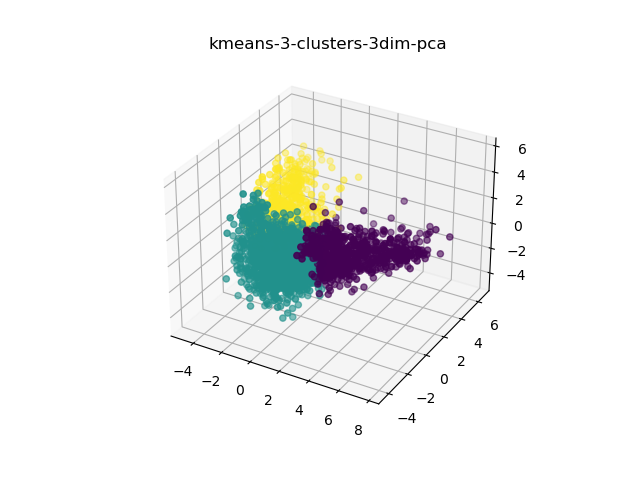
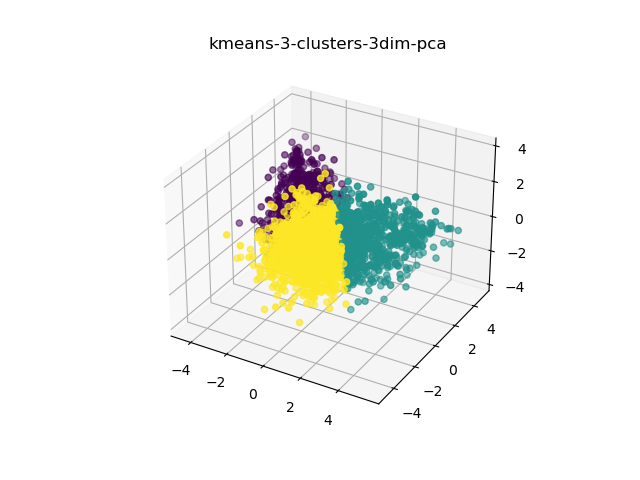
cluster fix and test loss evaluation

diff --git a/src/models/word2Vec.py b/src/models/word2Vec.py
@@ -36,7 +36,7 @@ class CustomWord2Vec(nn.Module):
         self.param_str = f"{dims}dim-"
         self.centers = T.randn(vocab_size, dims, requires_grad=True)
         self.contexts = T.randn(vocab_size, dims, requires_grad=True)
-        self.log = {"loss": []}
+        self.log = {"loss": [], "test_loss": []}
         self.neg_freq_fac = 1
         self.device = "cuda" if T.cuda.is_available() else "cpu"
         self.save_every = 5
@@ -61,45 +61,81 @@ class CustomWord2Vec(nn.Module):
         # LOSS
         self.opti.zero_grad()
         loss = ploss + nloss
-        self.log["loss"].append(loss.item())
         loss.backward()
         self.opti.step()
 
         return loss.item()
 
+    def test(self, loader):
+        losses = []
+        with T.no_grad():
+            for b_idx, batch in enumerate(loader):
+                # BATCH
+                center_idxs, context_idxs = batch
+                n_contexts = context_idxs.shape[1]
+                centers = self.centers[center_idxs]
+                centers = centers.repeat_interleave(n_contexts, dim=0)
+                contexts = self.contexts[context_idxs].flatten(0, 1)
+                c_size = contexts.shape[0]
+
+                # POSITIVE
+                ploss = F.cosine_embedding_loss(centers, contexts, target=T.ones(c_size))
+
+                # NEGATIVE
+                negatives = self.contexts[T.randint(self.vocab_size, size=(self.neg_freq_fac * c_size,))]
+                nloss = F.cosine_embedding_loss(centers, negatives, target=-1 * T.ones(c_size))
+
+                # LOSS
+                loss = ploss + nloss
+                losses.append(loss.item())
+        return sum(losses)/len(losses)
+
     def configure_optimizer(self) -> None:
         self.opti = T.optim.Adam([self.centers, self.contexts])
 
-    def train(self, train_loader: data.DataLoader, epochs=10, print_every=20) -> None:
+    def train(self, train_loader: data.DataLoader, test_loader=None, epochs=10, print_every=20) -> None:
         self.centers.to(self.device)
         self.contexts.to(self.device)
         for epoch in range(1, epochs + 1):
+            epoch_losses = []
             t = tqdm.tqdm(train_loader)
             for b_idx, batch in enumerate(t):
                 for b in batch:
                     b.to(self.device)
                 loss = self.training_step(batch)
+                epoch_losses.append(loss)
 
                 # PRINT
                 if not b_idx % print_every:
                     msg = f"epoch {epoch} loss {round(loss, 3)}"
                     t.set_description(msg)
 
+            self.log["loss"].append(sum(epoch_losses)/len(epoch_losses))
+
+            if test_loader is not None:
+                test_loss = self.test(test_loader)
+                self.log["test_loss"].append(test_loss)
+
             if not epoch % self.plot_every:
-                self.plot_logs(["loss"])
+                losses_list = ["loss"]+([] if test_loader is None else ["test_loss"])
+                #print(losses_list)
+                self.plot_logs(losses_list)
+
             if not epoch % self.save_every:
                 self.save_model()
 
     def plot_logs(self, keys, show=False):
         os.makedirs(self.path, exist_ok=True)
+        plt.clf()
         for key in keys:
             if self.log[key]:
-                plt.clf()
-                values = self.get_moving_avg(self.log[key], n=30)
+                #values = self.get_moving_avg(self.log[key], n=30)
+                values = self.log[key]
                 plt.plot(values, label=key)
                 if show:
                     plt.show()
-                plt.savefig(self.path + "plots.png")
+        plt.legend()
+        plt.savefig(self.path+self.param_str + "plots.png")
 
     def get_moving_avg(self, x, n=10):
         cumsum = np.cumsum(x)
@@ -137,7 +173,7 @@ class CustomWord2Vec(nn.Module):
             self.contexts = T.load(self.path+self.param_str + "y.pt")
             self.centers.requires_grad = True
             self.contexts.requires_grad = True
-            #print("LEAF", self.centers.is_leaf)
+            print("LEAF", self.centers.is_leaf)
             return True
         else:
             print(f"Couldn't find save files for {self.path+self.param_str} -> nothing loaded!")

diff --git a/clustering.py b/clustering.py
@@ -2,8 +2,9 @@ from sklearn import cluster
 from src.parsing import parser, actionSequence as AS
 from src.models import word2Vec
 import argparse
-from src.models.torchUtils import data_loader_from_numpy
+from src.models.torchUtils import data_set_from_numpy
 from src.models.torchUtils import write_embeddings_to_file
+from torch.utils.data import random_split, DataLoader
 from sklearn.cluster import KMeans, DBSCAN
 from sklearn.decomposition import PCA
 from sklearn.metrics.pairwise import cosine_distances
@@ -15,7 +16,8 @@ if __name__ == '__main__':
     # SETUP ARGUMENT PARSER
     argpar = argparse.ArgumentParser()
     argpar.add_argument("--epochs", type=int, default=30)
-    argpar.add_argument("--ncluster", type=int, default=30)
+    argpar.add_argument("--ncluster", type=int, default=3)
+    argpar.add_argument("--dims", type=int, default=64)
     argpar.add_argument("-noload", action="store_true")
     argpar.add_argument("-train", action="store_true")
     argpar.add_argument("-fused", action="store_true")
@@ -30,23 +32,26 @@ if __name__ == '__main__':
     # SETUP MODEL
     vocab_size = len(action_to_id)
     print(f"vocab size: {vocab_size}")
-    model = word2Vec.CustomWord2Vec(vocab_size=vocab_size)
-    model.configure_optimizer()
+    model = word2Vec.CustomWord2Vec(vocab_size=vocab_size, dims=args.dims)
     loaded_model_flag = False
     if not args.noload:
         loaded_model_flag = model.load_model()
+    model.configure_optimizer()
 
     # SETUP DATA
     contexts, centers = AS.generate_contexts(action_sequences)
     np_contexts = AS.actions_to_tokenized_np_arrays(contexts, action_to_id)
     np_centers = AS.actions_to_tokenized_np_arrays(centers, action_to_id)
-    data_loader = data_loader_from_numpy(np_centers.squeeze(), np_contexts)
+    dataset = data_set_from_numpy(np_centers.squeeze(), np_contexts)
+    train_counts = int(0.9*len(dataset))
+    trainset, testset = random_split(dataset, (train_counts, len(dataset)-train_counts))
+    train_loader = DataLoader(trainset, batch_size=32, shuffle=True)
+    test_loader = DataLoader(testset, batch_size=32, shuffle=True)
 
     # TRAINING
     if not loaded_model_flag or args.train:
         print(f"Start of Training for {args.epochs} epochs")
-        model.train(data_loader, epochs=args.epochs)
-        model.plot_logs(["loss"])
+        model.train(train_loader, test_loader=test_loader, epochs=args.epochs)
 
     #write_embeddings_to_file(model, action_to_id, approach_name='action_target_embedding')
 
@@ -67,7 +72,8 @@ if __name__ == '__main__':
 
     writefile = open(f"results/{NAME}.txt", "w")
     for c_idx, center in enumerate(cluster_centers):
-        print(c_idx, [str(idx_to_action[idx]) for idx in model.get_most_similar_idxs(vec=T.from_numpy(center))], file=writefile)
+        #print(c_idx, [str(idx_to_action[idx]) for idx in model.get_most_similar_idxs(vec=T.from_numpy(center))], file=writefile)
+        print(c_idx, [str(idx_to_action[idx]) for idx in range(len(X)) if clusterer.labels_[idx]==c_idx], file=writefile)
 
     labels = clusterer.labels_
     fig = plt.figure()

diff --git a/only_train.py b/only_train.py
@@ -2,8 +2,9 @@ from src.parsing import parser, actionSequence as AS
 from src.models import word2Vec
 import argparse
 import os
-from src.models.torchUtils import data_loader_from_numpy
+from src.models.torchUtils import data_set_from_numpy
 from src.models.torchUtils import write_embeddings_to_file
+from torch.utils.data import random_split, DataLoader
 
 
 if __name__ == '__main__':
@@ -24,21 +25,25 @@ if __name__ == '__main__':
     vocab_size = len(action_to_id)
     print(f"vocab size: {vocab_size}")
     model = word2Vec.CustomWord2Vec(vocab_size=vocab_size, dims=args.dims)
-    model.configure_optimizer()
     loaded_model_flag = False
     if not args.noload:
         loaded_model_flag = model.load_model()
+    model.configure_optimizer()
 
     # SETUP DATA
     contexts, centers = AS.generate_contexts(action_sequences)
     np_contexts = AS.actions_to_tokenized_np_arrays(contexts, action_to_id)
     np_centers = AS.actions_to_tokenized_np_arrays(centers, action_to_id)
-    data_loader = data_loader_from_numpy(np_centers.squeeze(), np_contexts)
+    dataset = data_set_from_numpy(np_centers.squeeze(), np_contexts)
+    train_counts = int(0.9*len(dataset))
+    trainset, testset = random_split(dataset, (train_counts, len(dataset)-train_counts))
+    train_loader = DataLoader(trainset, batch_size=32, shuffle=True)
+    test_loader = DataLoader(testset, batch_size=32, shuffle=True)
 
     # TRAINING
     if not loaded_model_flag or args.train:
         print(f"Start of Training for {args.epochs} epochs")
-        model.train(data_loader, epochs=args.epochs)
+        model.train(train_loader, test_loader=test_loader, epochs=args.epochs)
         model.plot_logs(["loss"])
 
     write_embeddings_to_file(model, action_to_id, approach_name='action_target_embedding')

diff --git a/src/models/torchUtils.py b/src/models/torchUtils.py
@@ -11,6 +11,8 @@ def data_loader_from_numpy(centers, contexts, batch_size=32,
     dataset = data.TensorDataset(torch.from_numpy(centers), torch.from_numpy(contexts))
     return data.DataLoader(dataset, batch_size=batch_size, shuffle=shuffle)
 
+def data_set_from_numpy(centers, contexts) -> data.TensorDataset:
+    return data.TensorDataset(torch.from_numpy(centers), torch.from_numpy(contexts))
 
 def data_loader_from_x_y(x, y, batch_size=32,
                          shuffle=True) -> data.DataLoader:
